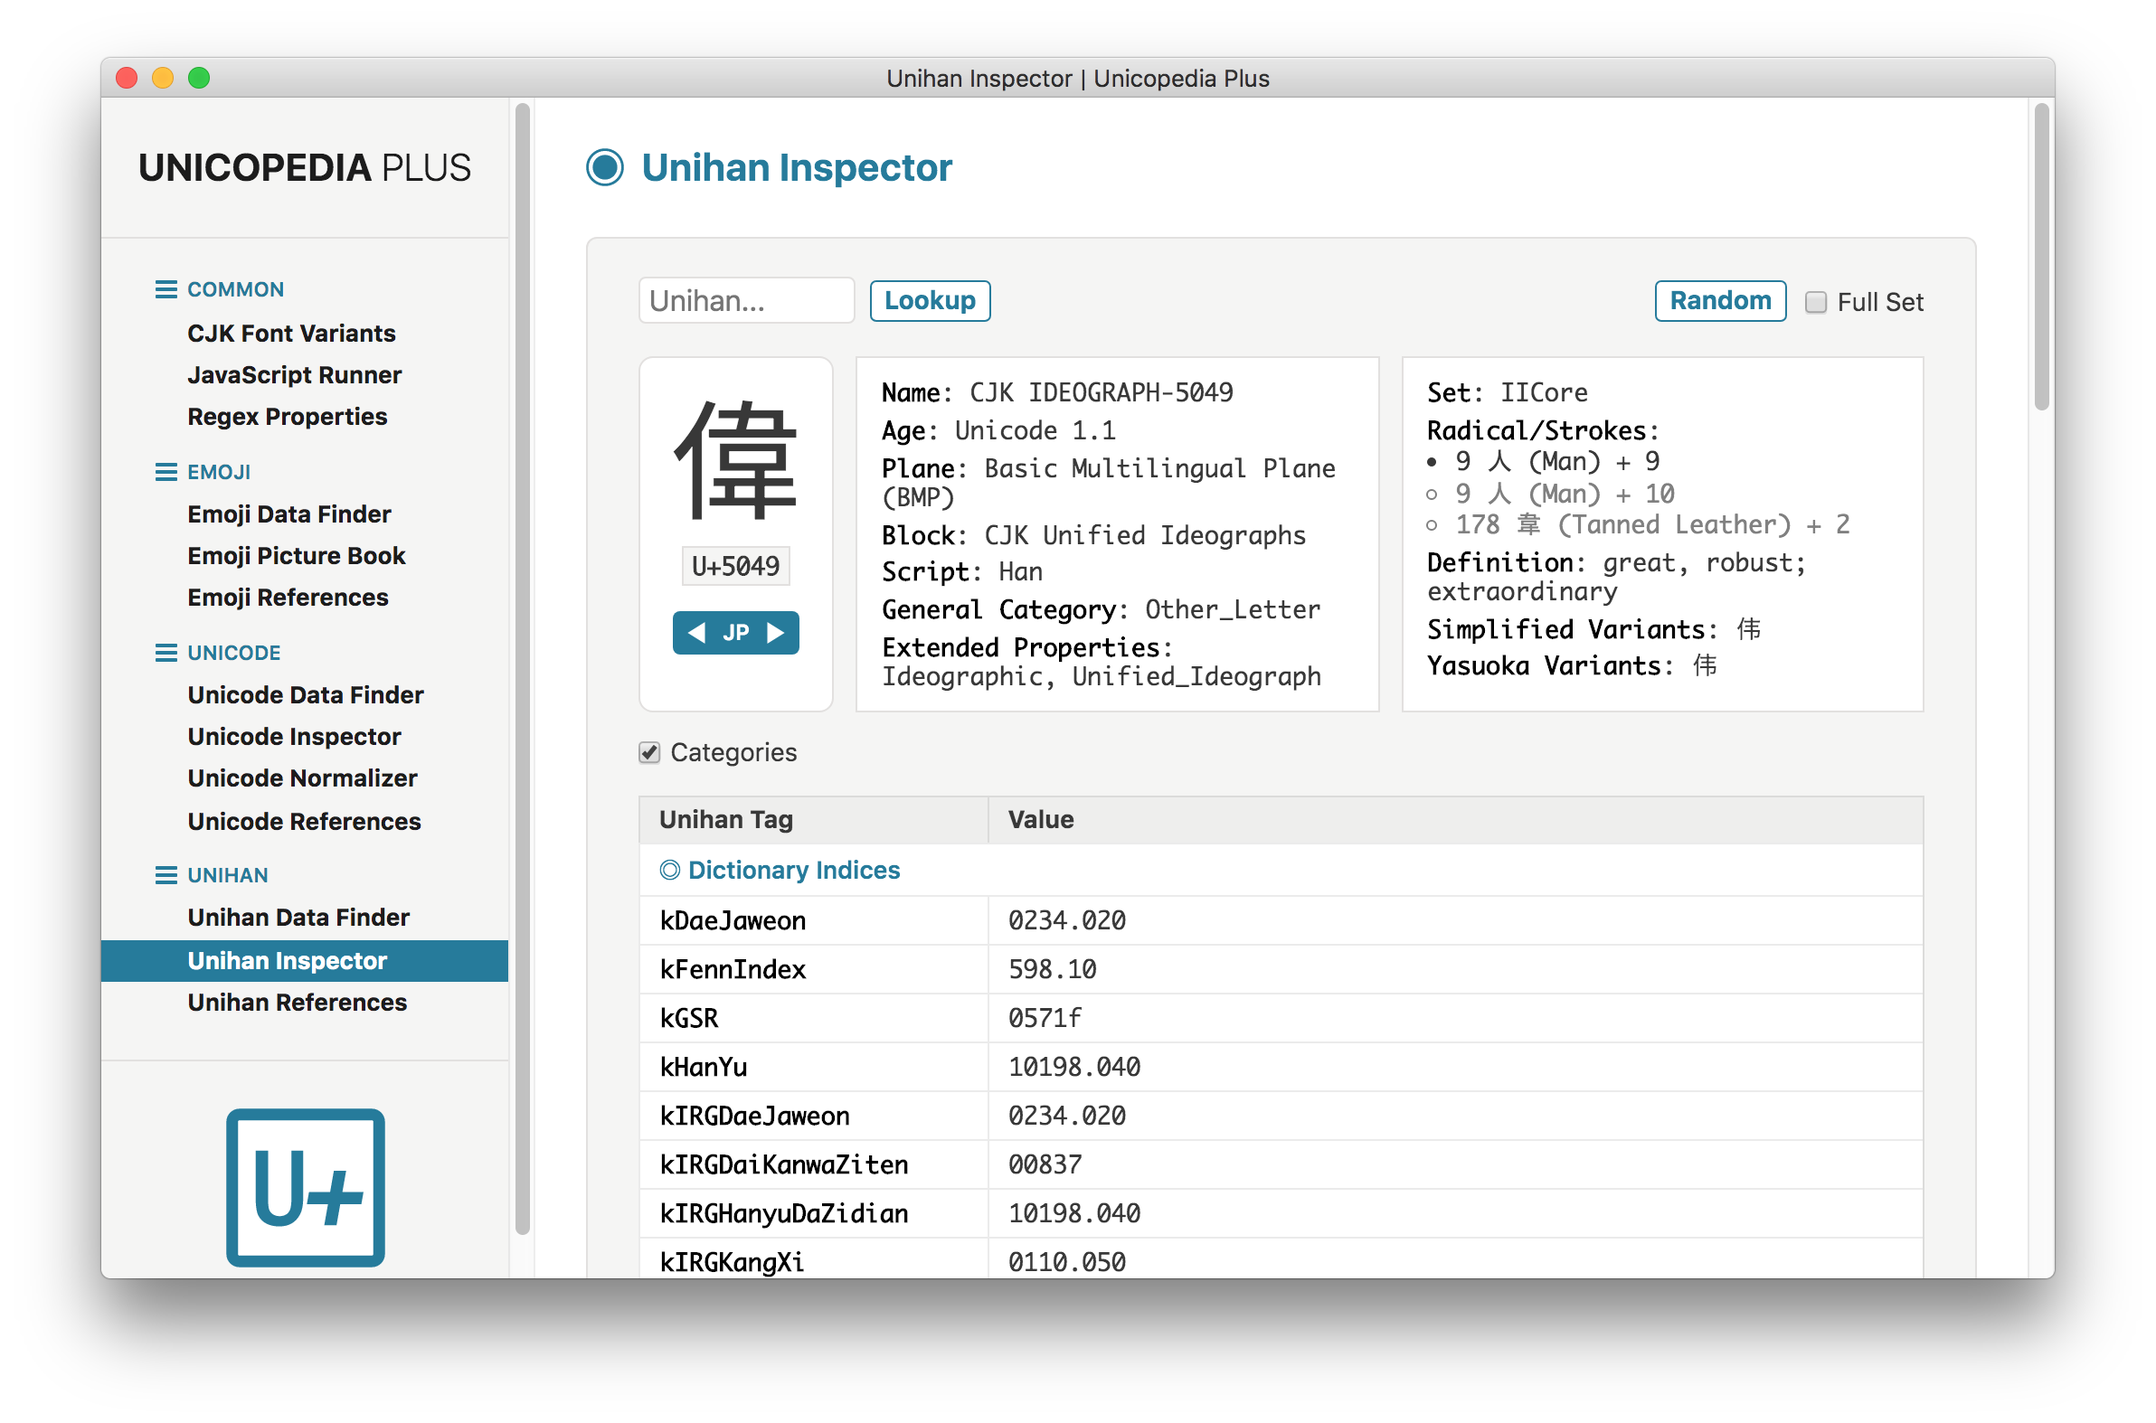
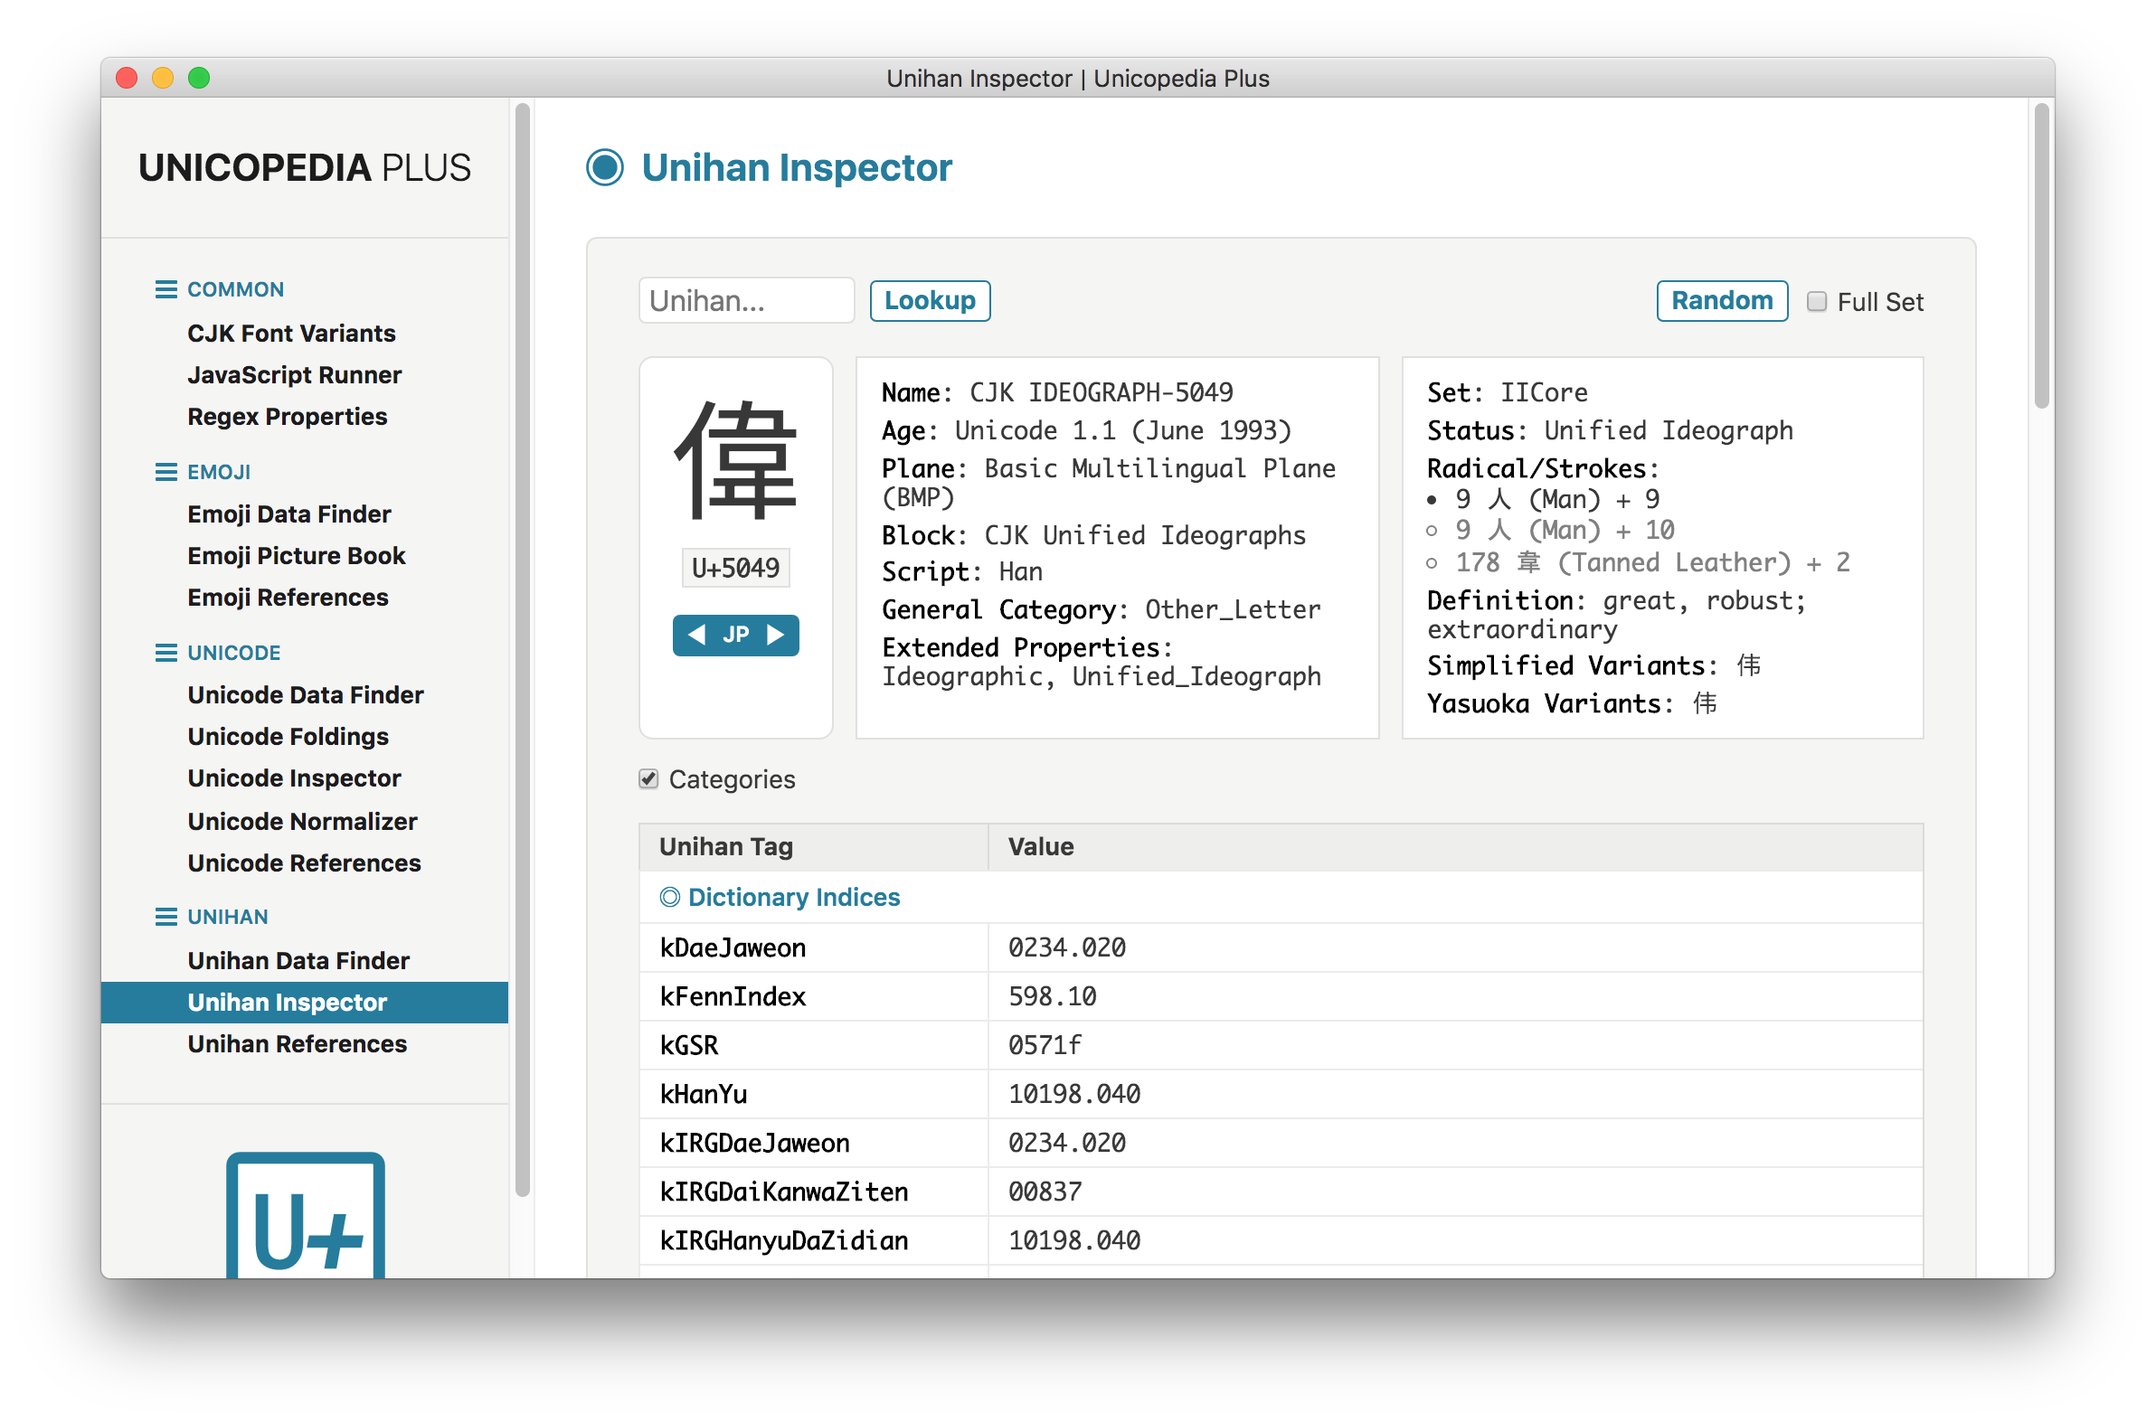
Updated app to 5.15.0

diff --git a/renderer/units/Unihan Inspector/import.js b/renderer/units/Unihan Inspector/import.js
@@ -26,7 +26,6 @@ module.exports.start = function (context)
 {
     const { remote } = require ('electron');
     //
-    const regexUnicode = require ('../../lib/regex-unicode.js');
     const unicode = require ('../../lib/unicode/unicode.js');
     const unihanData = require ('../../lib/unicode/parsed-unihan-data.js');
     const numericValuesData = require ('../../lib/unicode/parsed-numeric-values-data.js');
@@ -93,8 +92,11 @@ module.exports.start = function (context)
     //
     const filterPattern = unihanOrRadicalPattern;
     //
+    const unifiedPattern = '\\p{Unified_Ideograph}';
+    //
     const radicalRegex = new RegExp (radicalPattern, 'u');
     const filterRegex = new RegExp (filterPattern, 'u');
+    const unifiedRegex = new RegExp (unifiedPattern, 'u');
     //
     function getTooltip (char)
     {
@@ -405,6 +407,7 @@ module.exports.start = function (context)
             }
             //
             let unicodeData = unicode.getCharacterData (unihanCharacter.textContent);
+            let age = `Unicode ${unicodeData.age} (${unicodeData.ageDate})`;
             let numericType = "";
             if (unicodeData.numeric)
             {
@@ -421,7 +424,7 @@ module.exports.start = function (context)
             let unicodeFields =
             [
                 { name: "Name", value: unicodeData.name },
-                { name: "Age", value: unicodeData.age, toolTip: unicodeData.ageDate },
+                { name: "Age", value: age },
                 { name: "Plane", value: unicodeData.planeName, toolTip: unicodeData.planeRange },
                 { name: "Block", value: unicodeData.blockName, toolTip: unicodeData.blockRange },
                 { name: "Script", value: unicodeData.script },
@@ -469,6 +472,7 @@ module.exports.start = function (context)
             {
                 let iiCoreSet = ("kIICore" in tags) ? "IICore" : "Full";
                 let iiCoreSetToolTip = ("kIICore" in tags) ? getIICoreTooltip (tags["kIICore"]) : "";
+                let status = unifiedRegex.test (character) ? "Unified Ideograph" : "Compatibility Ideograph";
                 let rsValues = [ ];
                 let rsClasses = [ ];
                 let rsIRGCount = 0;
@@ -540,6 +544,7 @@ module.exports.start = function (context)
                 let unihanFields =
                 [
                     { name: "Set", value: iiCoreSet, toolTip: iiCoreSetToolTip },
+                    { name: "Status", value: status },
                     { name: "Radical/Strokes", value: rsValues, class: rsClasses },
                     { name: "Definition", value: definitionValue },
                     { name: "Numeric Value", value: numericValue },

diff --git a/renderer/units/Unihan Data Finder/grid-data-table.js b/renderer/units/Unihan Data Finder/grid-data-table.js
@@ -79,13 +79,13 @@ module.exports.create = function (characters, params, highlightedCharacter)
         table.appendChild (header);
         //
         let unihanRegex = regexUnicode.build ('(?=\\p{Script=Han})(?=\\p{Other_Letter})', { useRegex: true });
+        let unifiedRegex = regexUnicode.build ('\\p{Unified_Ideograph}', { useRegex: true });
         let colCount = hexDigits.length;
         let colIndex = 0;
         let row;
         for (let character of characters)
         {
             let data = unicode.getCharacterBasicData (character);
-            let isUnihanCharacter = unihanRegex.test (character);
             if ((colIndex % colCount) === 0)
             {
                 row = document.createElement ('tr');
@@ -100,8 +100,10 @@ module.exports.create = function (characters, params, highlightedCharacter)
             symbolCell.className = 'symbol-cell';
             let symbol = document.createElement ('span');
             symbol.className = 'symbol';
-            if (isUnihanCharacter)
+            if (unihanRegex.test (character))
             {
+                let status = unifiedRegex.test (character) ? "Unified Ideograph" : "Compatibility Ideograph";
+                symbolCell.title = `Code Point: ${data.codePoint}\nAge: Unicode ${data.age} (${data.ageDate})\nStatus: ${status}`;
                 if (deferredSymbols)
                 {
                     symbol.textContent = "\u3000";  // Ideographic space
@@ -113,7 +115,6 @@ module.exports.create = function (characters, params, highlightedCharacter)
                 {
                     symbol.textContent = data.character;
                 }
-                symbol.title = `Code Point: ${data.codePoint}\nAge: ${data.age} (${data.ageDate})`;
                 if (character === highlightedCharacter)
                 {
                     symbol.classList.add ('highlighted');

diff --git a/renderer/units/Unihan Data Finder/tag-data-table.js b/renderer/units/Unihan Data Finder/tag-data-table.js
@@ -1,6 +1,9 @@
 //
 const deferredSymbols = (process.platform === 'darwin');
 //
+const regexUnicode = require ('../../lib/regex-unicode.js');
+const unicode = require ('../../lib/unicode/unicode.js');
+//
 module.exports.create = function (characterInfos, params)
 {
     function updateDataPage (dataPage)
@@ -79,10 +82,15 @@ module.exports.create = function (characterInfos, params)
         headerRow.appendChild (headerBlock);
         table.appendChild (headerRow);
         //
+        let unifiedRegex = regexUnicode.build ('\\p{Unified_Ideograph}', { useRegex: true });
+        //
         for (let characterInfo of characterInfos)
         {
+            let data = unicode.getCharacterBasicData (characterInfo.character);
             let dataRow = document.createElement ('tr');
             dataRow.className = 'data-row';
+            let status = unifiedRegex.test (characterInfo.character) ? "Unified Ideograph" : "Compatibility Ideograph";
+            dataRow.title = `Age: Unicode ${data.age} (${data.ageDate})\nStatus: ${status}`;
             let dataSymbol = document.createElement ('td');
             dataSymbol.className = 'data-symbol';
             if (deferredSymbols)
@@ -132,8 +140,8 @@ module.exports.create = function (characterInfos, params)
             dataRow.appendChild (dataValue);
             let dataBlock = document.createElement ('td');
             dataBlock.className = 'data-block';
-            dataBlock.title = characterInfo.blockRange;
-            dataBlock.textContent = characterInfo.blockName.replace (/ (.)$/, "\u00A0$1");
+            dataBlock.title = data.blockRange;
+            dataBlock.textContent = data.blockName.replace (/ (.)$/, "\u00A0$1");
             dataRow.appendChild (dataBlock);
             table.appendChild (dataRow);
         }

diff --git a/renderer/units/Unihan Inspector/import.html b/renderer/units/Unihan Inspector/import.html
@@ -32,10 +32,10 @@
                 <li>In addition, the utility provides, for each Unihan character:
                     <ul>
                         <li>basic Unicode information: name, age, plane, block, script, script extensions, general category, extended properties, decomposition, equivalent unified ideograph, numeric value;</li>
-                        <li>basic Unihan information: set (IICore or full), radical/strokes, definition, numeric value, variant characters.</li>
+                        <li>basic Unihan information: set (IICore or full), status (unified or compatibility ideograph), radical/strokes, definition, numeric value, variant characters.</li>
                     </ul>
                 </li>
-                <li>Basic radical information can also be obtained for the 214 KangXi radicals and their 115 associated CJK radicals.</li>
+                <li>Basic radical information can also be obtained for the 214 KangXi radicals and the 115 additional CJK radicals.</li>
                 <li>Previously looked up characters are kept in a history stack; use the <kbd>Alt</kbd>+<kbd>↑</kbd> and <kbd>Alt</kbd>+<kbd>↓</kbd> keyboard shortcuts to navigate through them up and down inside the input field.</li>
                 <li>It is also possible to lookup a randomly selected Unihan character by clicking on the <kbd>Random</kbd> button; use the <kbd>Full Set</kbd> checkbox to perform the draw on the full set of 88,889 Unihan characters, or restrict it to the IICore set of 9,810 CJK unified ideographs in common usage.</li>
                 <li>The currently looked up character is displayed at a large scale, followed by its code point.</li>

diff --git a/renderer/lib/unicode/unicode.js b/renderer/lib/unicode/unicode.js
@@ -545,7 +545,7 @@ function getCharacterData (character)
     {
         if ((parseInt (version.first, 16) <= index) && (index <= parseInt (version.last, 16)))
         {
-            characterData.age = `Unicode ${version.age}`;
+            characterData.age = version.age;
             characterData.ageDate = versionDates[version.age];
             break;
         }
@@ -790,6 +790,7 @@ function getCharacterBasicData (character)
         characterBasicData.figment = data.figment;
         characterBasicData.abbreviation = data.abbreviation;
         characterBasicData.correction = data.correction;
+        characterBasicData.category = categories[data.category];
     }
     let index = character.codePointAt (0);
     for (let block of extraData.blocks)
@@ -807,6 +808,23 @@ function getCharacterBasicData (character)
         {
             characterBasicData.age = version.age;
             characterBasicData.ageDate = versionDates[version.age];
+            break;
+        }
+    }
+    for (let script of extraData.scripts)
+    {
+        if ((parseInt (script.first, 16) <= index) && (index <= parseInt (script.last, 16)))
+        {
+            characterBasicData.script = script.name;
+            break;
+        }
+    }
+    for (let scriptExtension of extraData.scriptExtensions)
+    {
+        if ((parseInt (scriptExtension.first, 16) <= index) && (index <= parseInt (scriptExtension.last, 16)))
+        {
+            let names = scriptExtension.aliases.split (" ").map (alias => scripts[alias]);
+            characterBasicData.scriptExtensions = names.sort ((a, b) => a.localeCompare (b));
             break;
         }
     }

diff --git a/renderer/units/Unihan Data Finder/import.js b/renderer/units/Unihan Data Finder/import.js
@@ -324,18 +324,6 @@ module.exports.start = function (context)
                 if (matchingValues.includes (true))
                 {
                     let character = String.fromCodePoint (parseInt (codePoint.replace ("U+", ""), 16));
-                    let index = character.codePointAt (0);
-                    let blockName;
-                    let blockRange;
-                    for (let block of unihanBlocks)
-                    {
-                        if ((block.firstIndex <= index) && (index <= block.lastIndex))
-                        {
-                            blockName = block.name;
-                            blockRange = block.range;
-                            break;
-                        }
-                    }
                     characterInfoList.push
                     (
                         {
@@ -343,9 +331,7 @@ module.exports.start = function (context)
                             codePoint: codePoint,
                             tag: tag,
                             value: ((values.length > 1) ? values : values[0]),
-                            matching: ((matchingValues.length > 1) ? matchingValues : matchingValues[0]),
-                            blockName: blockName,
-                            blockRange: blockRange
+                            matching: ((matchingValues.length > 1) ? matchingValues : matchingValues[0])
                         }
                     );
                 }

diff --git a/renderer/units/Unicode Inspector/import.js b/renderer/units/Unicode Inspector/import.js
@@ -185,6 +185,7 @@ module.exports.start = function (context)
                     cell = document.createElement ('td');
                     cell.className = 'properties';
                     let name = data.name || "<unassigned>"; // "UNASSIGNED CHARACTER"
+                    let age = `Unicode ${data.age} (${data.ageDate})`;
                     let numericType = "";
                     let numericValue = "";
                     if (data.numeric)
@@ -212,7 +213,7 @@ module.exports.start = function (context)
                         { name: "Figment", value: data.figment },
                         { name: "Abbreviation", value: data.abbreviation },
                         { name: "Correction", value: data.correction },
-                        { name: "Age", value: data.age, toolTip: data.ageDate },
+                        { name: "Age", value: age },
                         { name: "Plane", value: data.planeName, toolTip: data.planeRange },
                         { name: "Block", value: data.blockName, toolTip: data.blockRange },
                         { name: "Script", value: data.script },

diff --git a/renderer/units/Unicode Data Finder/data-table.js b/renderer/units/Unicode Data Finder/data-table.js
@@ -88,6 +88,27 @@ module.exports.create = function (characters, params, highlightedCharacter)
             {
                 row.classList.add ('unassigned');
             }
+            else
+            {
+                let tooltip = [ ];
+                if (data.age)
+                {
+                    tooltip.push (`Age: Unicode ${data.age} (${data.ageDate})`);
+                }
+                if (data.script)
+                {
+                    tooltip.push (`Script: ${data.script}`);
+                }
+                if (data.scriptExtensions)
+                {
+                    tooltip.push (`Script Extensions: ${data.scriptExtensions.join (", ")}`);
+                }
+                if (data.category)
+                {
+                    tooltip.push (`General Category: ${data.category}`);
+                }
+                row.title = tooltip.join ("\n");
+            }
             let symbol = document.createElement ('td');
             symbol.className = 'symbol';
             if (isAssignedCharacter)

diff --git a/renderer/lib/unicode/parsed-extra-data.js b/renderer/lib/unicode/parsed-extra-data.js
@@ -15,7 +15,7 @@ for (let line of lines)
 {
     if (line && (line[0] !== "#"))
     {
-        let found = line.match (/^([0-9a-fA-F]{4,})(?:\.\.([0-9a-fA-F]{4,}))?\s+;\s+(\d+\.\d+)\s+#/);
+        let found = line.match (/^([0-9a-fA-F]{4,})(?:\.\.([0-9a-fA-F]{4,}))?\s*;\s*(\d+\.\d+)\s*#/);
         if (found)
         {
             versions.push ({ first: found[1], last: found[2] || found[1], age: found[3] });

diff --git a/README.md b/README.md
@@ -352,8 +352,8 @@ The following utilities are currently available:
 - Any Unihan character can be entered in the <kbd>Unihan</kbd> input field either as a character or a code point. Click on the <kbd>Lookup</kbd> button to display the list of Unihan tags.
 - In addition, the utility provides, for each Unihan character:
     - basic Unicode information: name, age, plane, block, script, script extensions, general category, extended properties, decomposition, equivalent unified ideograph, numeric value;
-    - basic Unihan information: set (IICore or full), radical/strokes, definition, numeric value, variant characters.
-- Basic radical information can also be obtained for the 214 KangXi radicals and their 115 associated CJK radicals.
+    - basic Unihan information: set (IICore or full), status (unified or compatibility ideograph), radical/strokes, definition, numeric value, variant characters.
+- Basic radical information can also be obtained for the 214 KangXi radicals and the 115 additional CJK radicals.
 - Previously looked up characters are kept in a history stack; use the <kbd>Alt</kbd>+<kbd>↑</kbd> and <kbd>Alt</kbd>+<kbd>↓</kbd> keyboard shortcuts to navigate through them up and down inside the input field.
 - It is also possible to lookup a randomly selected Unihan character by clicking on the <kbd>Random</kbd> button; use the <kbd>Full Set</kbd> checkbox to perform the draw on the full set of 88,889 Unihan characters, or restrict it to the IICore set of 9,810 CJK unified ideographs in common usage.
 - The currently looked up character is displayed at a large scale, followed by its code point.
